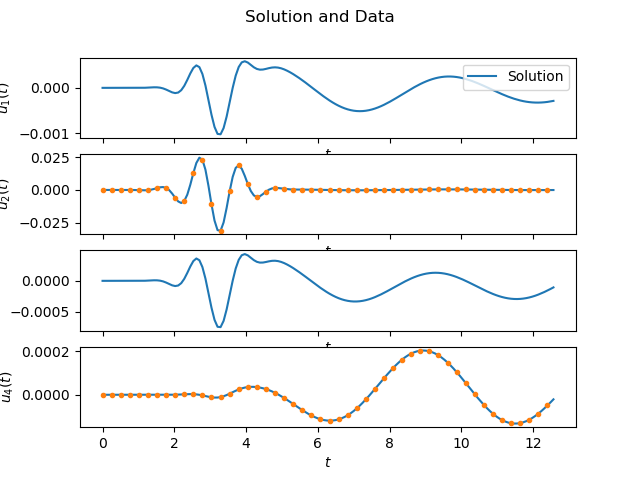
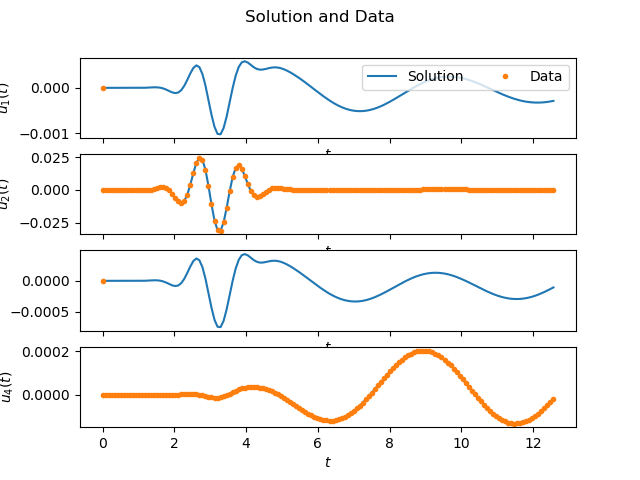
fixed phys. weight param, more time data

diff --git a/4dof.py b/4dof.py
@@ -97,7 +97,8 @@ u_t = sol[:, N_DEGREES_OF_FREEDOM:]
 
 # %%
 ## Screen out training data
-time_indices   = np.arange( 0, len(t), len(t) // N_COLLOC_POINTS )
+# time_indices   = np.arange( 0, len(t), len(t) // N_COLLOC_POINTS )
+time_indices   = np.arange( 0, len(t), 1 )
 sensor_indices = [1, 3]
 
 tdata = t[time_indices]
@@ -112,6 +113,8 @@ for dim in range(N_DEGREES_OF_FREEDOM):
     ax[dim].plot(t, u[:, dim], label="Solution")
     if dim in sensor_indices:
         ax[dim].plot(tdata, udata[:, dim], label="Data", linestyle="None", marker=".")
+    else:
+        ax[dim].plot(tdata[0], udata[0, dim], label="Data", linestyle="None", marker=".")
     ax[dim].set_xlabel(r"$t$")
     ax[dim].set_ylabel(r"$u_{}(t)$".format(dim + 1))
     if dim == 0:
@@ -166,11 +169,15 @@ def system (t, u):
         -
         pt_force(t)
     ).permute((1, 0))
-    return alpha_pi * residual
+    return max(alpha_pi, 1.0) * residual
 
 bcs = [
-    dde.icbc.boundary_conditions.PointSetBC( tdata.reshape(-1, 1), udata[:, dim].reshape(-1, 1), component=dim )
-    for dim in sensor_indices
+    ( 
+        dde.icbc.boundary_conditions.PointSetBC( tdata.reshape(-1, 1), udata[:, dim].reshape(-1, 1), component=dim )
+    ) if (dim in sensor_indices) else (
+        dde.icbc.boundary_conditions.PointSetBC( tdata[0].reshape(-1, 1), udata[0, dim].reshape(-1, 1), component=dim )
+    )
+    for dim in range(N_DEGREES_OF_FREEDOM)
 ]
 
 data = dde.data.PDE(
@@ -192,7 +199,7 @@ model = dde.Model(data, net)
 model.compile("adam", lr=1e-4, external_trainable_variables=[E, alpha_pi])
 
 variable = dde.callbacks.VariableValue(
-  list(E) + [alpha_pi], period=1000, filename="variables.dat"
+  list(torch.abs(E)) + [max(alpha_pi, 1.0)], period=1000, filename="variables.dat"
 )
 
 checkpoint = dde.callbacks.ModelCheckpoint("model_files/checkpoints/model", period=10_000)
@@ -209,6 +216,8 @@ def plot():
         ax[dim].plot(t, u[:, dim], label="Solution", color='blue')
         if dim in sensor_indices:
             ax[dim].plot(tdata, udata[:, dim], label="Data", linestyle="None", marker=".", color='orange')
+        else:
+            ax[dim].plot(tdata[0], udata[0, dim], label="Data", linestyle="None", marker=".", color='orange')
         ax[dim].plot(t, upred[:, dim], label="Prediction", color='green')
         ax[dim].set_xlabel(r"$t$")
         ax[dim].set_ylabel(r"$u_{}(t)$".format(dim + 1))
